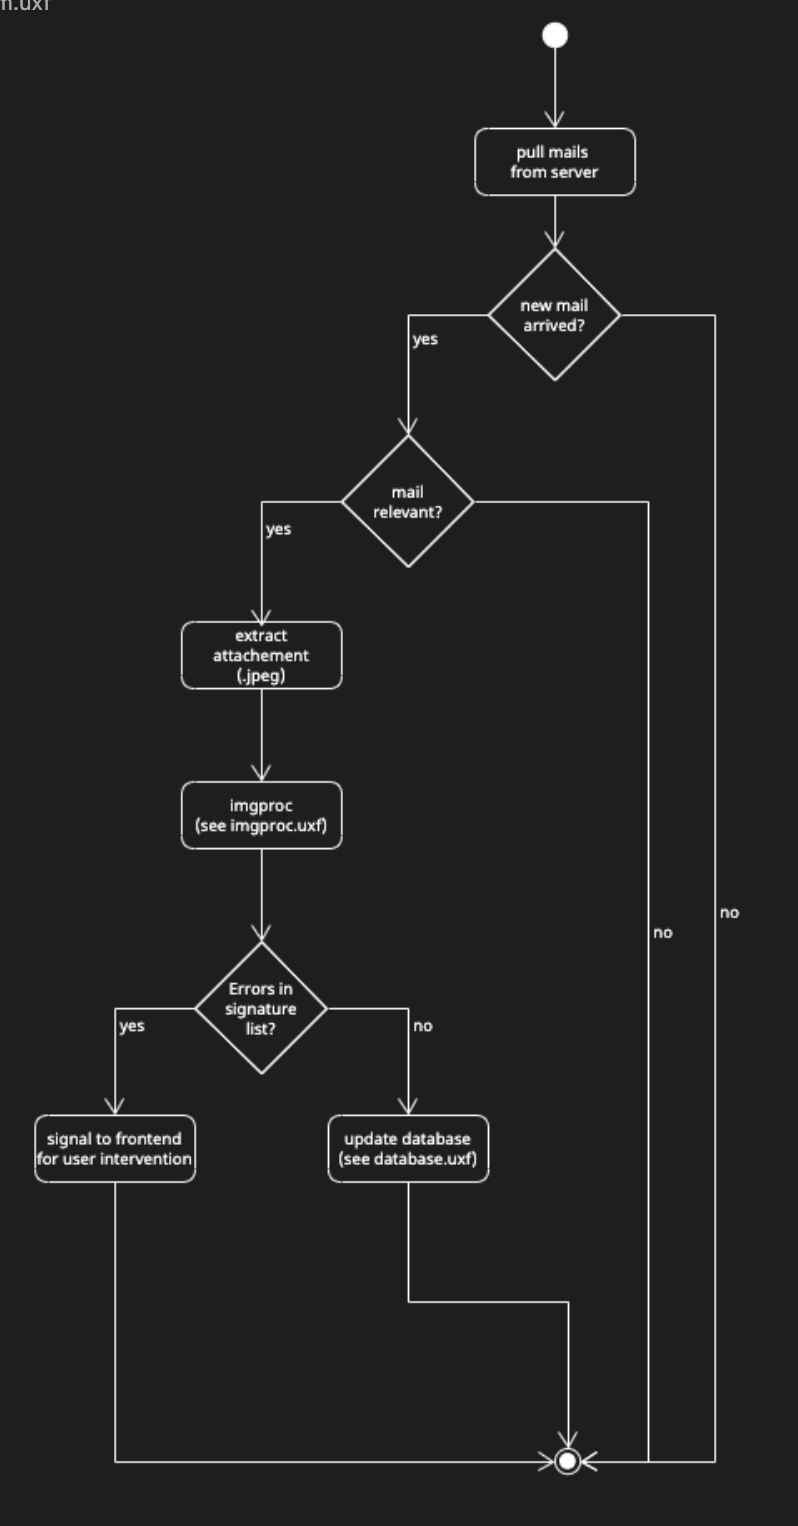
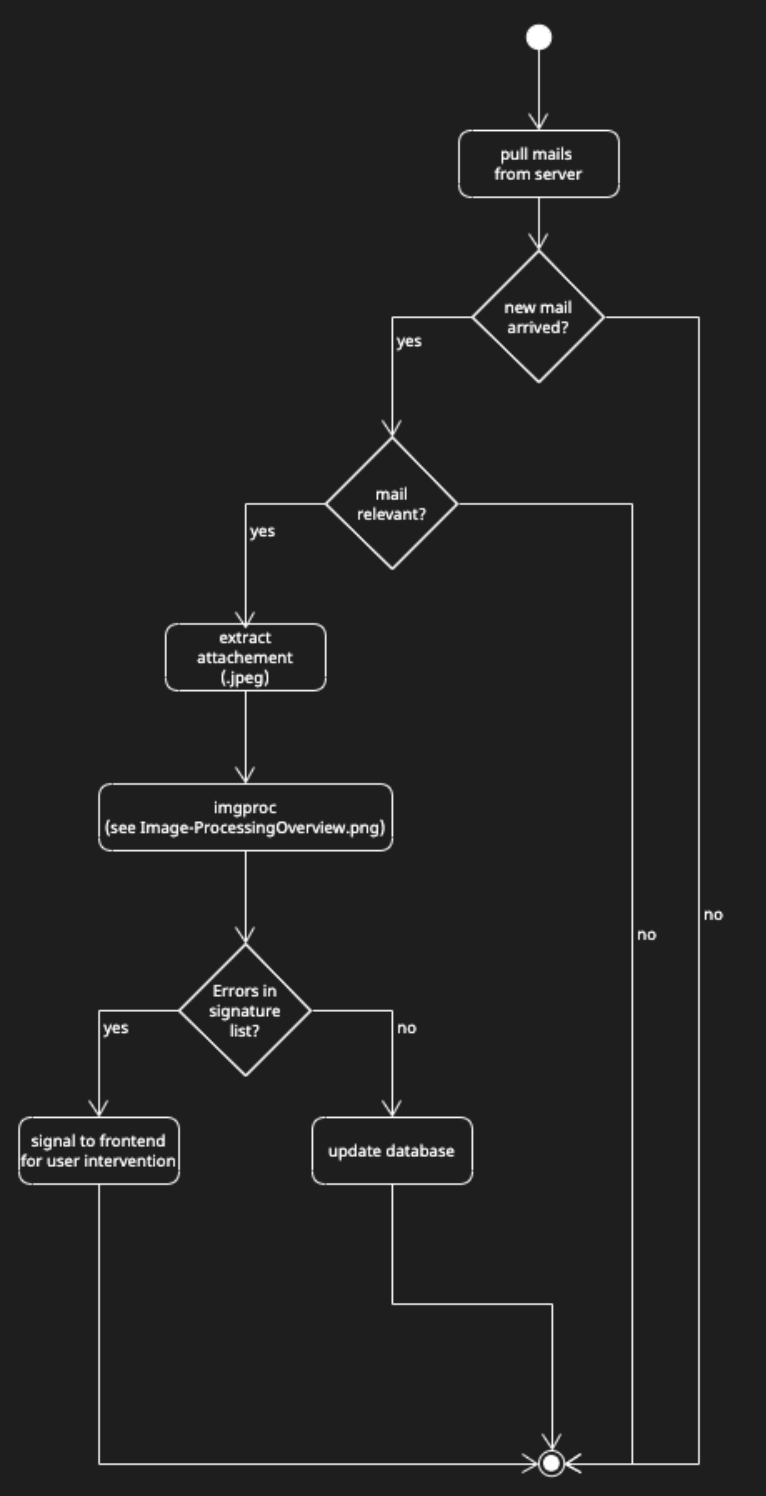
fixed mistakes in diagrams

diff --git a/Pages/3Design/3.1.0Architecture.md b/Pages/3Design/3.1.0Architecture.md
@@ -16,7 +16,10 @@ The view is the UI of the application. It displays the data from the ViewModel a
 The ViewModel mediates between the Model and the View. It exposes data and commands from the Model to the View and handles user interactions from the View. ViewModels contain properties that represent the state of the UI and methods or commands to perform actions in response to user input.
 
 The exact implementation is shown here:
-![Component Diagram](/Diagrams/Images/ComponentDiagram.png)
+
+![Component Diagram](/Diagrams/Images/ComponentDiagram.png "component diagram")
+
+![Package Diagram](/Diagrams/Images/PackageDiagram.png "package diagram")
 
 ## 1. HMI
 

diff --git a/Pages/3Design/3.3.0BuildingBlockView.md b/Pages/3Design/3.3.0BuildingBlockView.md
@@ -10,6 +10,12 @@ YAAC breaks down in four subsystems as presented below.
 
 ---
 
+## 0. Backend Activity
+
+The three subsystems mail integration, image processing and database form the backend.
+The following diagram shows a general overview of how they work together.
+
+![BackendActivityDiagram](/Diagrams/Images/BackendActivityDiagram.png)
 
 ## 1. Mail Client
 
